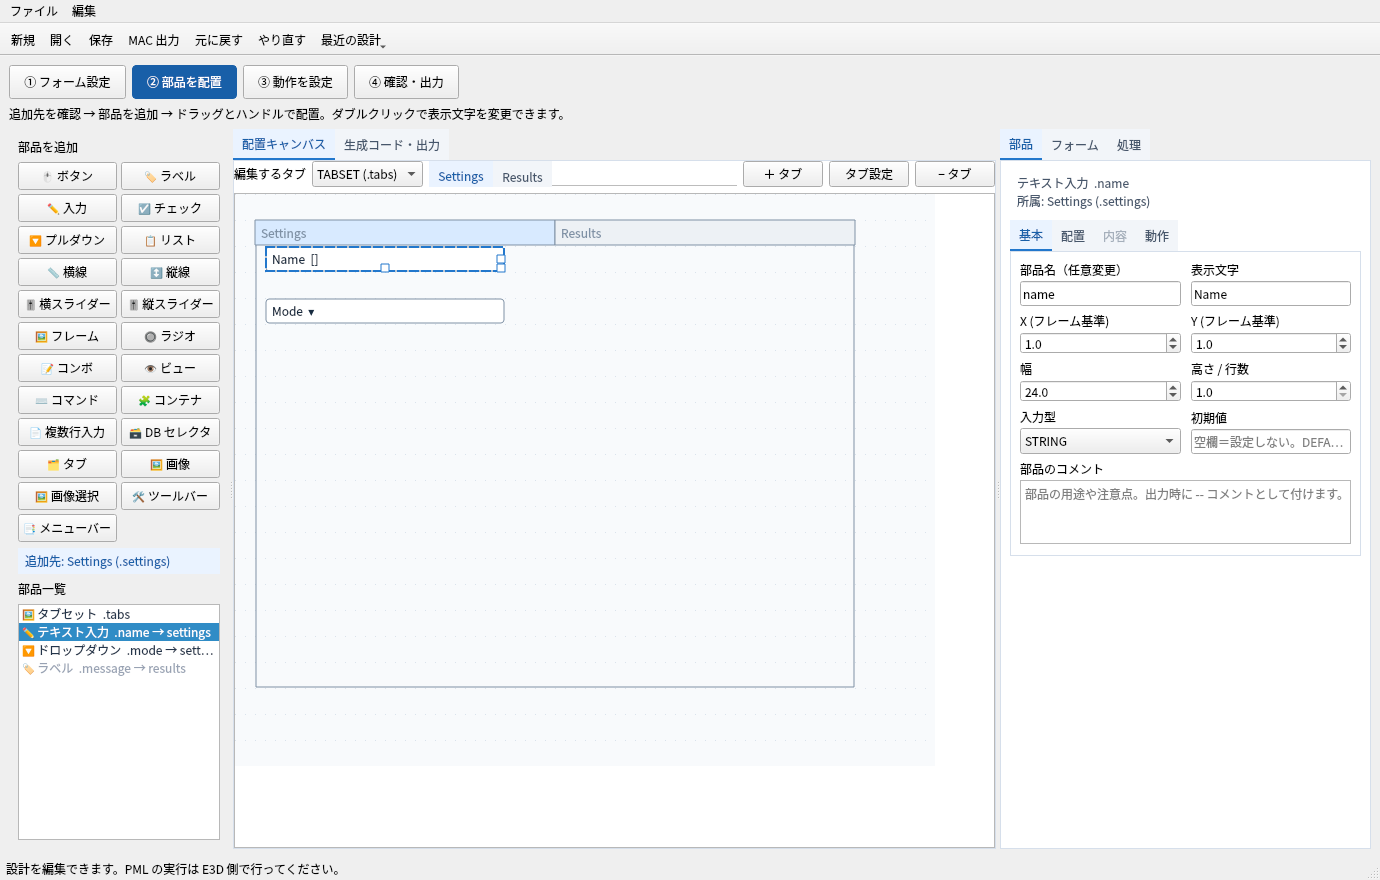
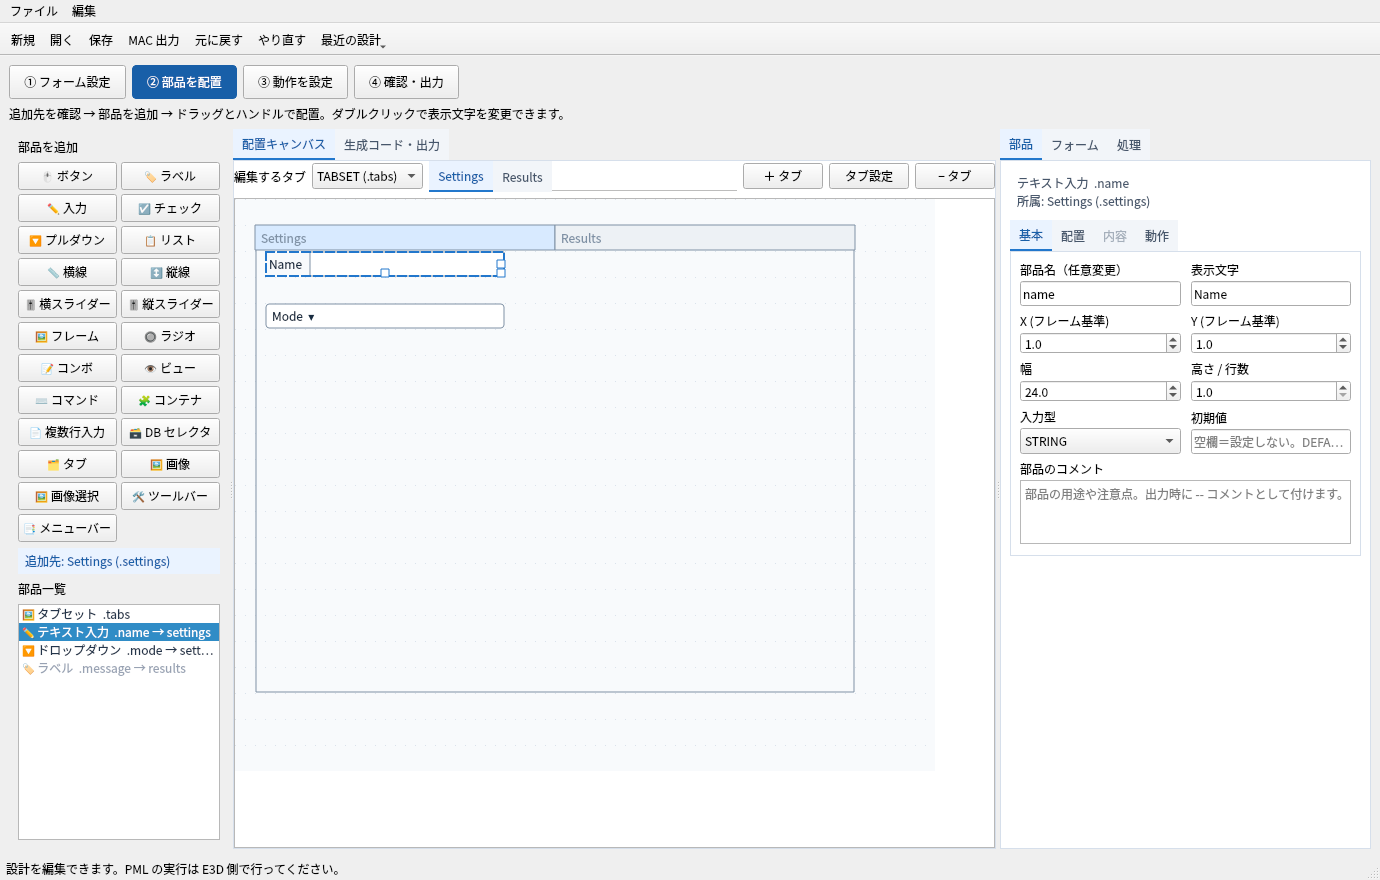
feat: choose boolean defaults and separate text labels from input frames

diff --git a/e3d_designer/app.py b/e3d_designer/app.py
@@ -263,6 +263,13 @@ class Item(QGraphicsObject):
             g.width,g.height = old_width,old_height
         self.resizing.emit(); event.accept()
 
+    def text_regions(self,metrics):
+        rect=self.boundingRect()
+        label_width=min(metrics.horizontalAdvance(self.gadget.label)+8,max(0,rect.width()*.45)) if self.gadget.label else 0
+        label=QRectF(4,1,max(0,label_width-4),max(0,rect.height()-2))
+        entry=rect.adjusted(label_width+4 if label_width else 1,1,-1,-1)
+        return label,entry
+
     def paint(self, painter, option, widget=None):
         r, g = self.boundingRect(), self.gadget
         painter.setRenderHint(QPainter.Antialiasing)
@@ -300,6 +307,9 @@ class Item(QGraphicsObject):
                 painter.drawLine(r.left(), r.center().y(), r.right(), r.center().y())
             else:
                 painter.drawLine(r.center().x(), r.top(), r.center().x(), r.bottom())
+        elif g.kind=='text':
+            _,entry=self.text_regions(painter.fontMetrics())
+            painter.drawRect(entry)
         else:
             painter.drawRoundedRect(r.adjusted(1, 1, -1, -1), 3, 3)
         painter.setPen(QColor(foreground_color(background) if background else '#182b40'))
@@ -319,10 +329,14 @@ class Item(QGraphicsObject):
             if self.form.children(g.name) and g.frame_style == 'TABSET': text = ''
             if parent and parent.frame_style == 'TABSET': text = ''
         if g.kind == 'paragraph' and g.background: text += f' [BG {g.background}]'
-        if g.kind == 'text': text += '  [' + g.initial + ']'
-        if g.kind == 'toggle': text = '☐ ' + text
+        if g.kind == 'text':
+            label,entry=self.text_regions(painter.fontMetrics())
+            painter.drawText(label,Qt.AlignLeft|Qt.AlignVCenter,painter.fontMetrics().elidedText(g.label,Qt.ElideRight,max(0,int(label.width()))))
+            painter.drawText(entry.adjusted(5,1,-5,-1),Qt.AlignLeft|Qt.AlignVCenter,g.initial)
+            text=''
+        if g.kind == 'toggle': text = ('☑ ' if g.initial.upper()=='TRUE' else '☐ ') + text
         if g.kind in ('option','combo') and g.display_mode != 'PIXMAP': text += '  ▾'
-        if g.kind == 'rtoggle': text = '○ '+text
+        if g.kind == 'rtoggle': text = ('● ' if g.initial.upper()=='TRUE' else '○ ')+text
         if g.kind == 'slider': text = ''
         if g.kind in ('view','commandline'):
             painter.setPen(QColor('#d7e7f7'))
@@ -634,6 +648,11 @@ class Window(QMainWindow):
             if key in ('name','callback','table_method','macro_flag','macro_value'):
                 w.setToolTip('自動設定・自動生成されます。管理用の名前にしたい場合だけ変更してください。')
         self.fields['action_mode'].setItemData(0,'CODE');self.fields['action_mode'].setItemData(1,'MACRO')
+        self.initial_choice=QComboBox()
+        for value in ('','TRUE','FALSE'):self.initial_choice.addItem(value,value)
+        self.initial_choice.currentIndexChanged.connect(self.update_initial_choice)
+        self.initial_choice.setToolTip('空欄＝設定しない。TRUE / FALSEを選ぶとDEFAULTへ自動出力します。')
+        self.prop_layout.current='基本';self.prop_layout.addRow('初期値',self.initial_choice,'value_type')
         self.fields['action_mode'].setItemText(0,'手入力のコマンド / メソッド')
         self.fields['action_mode'].setItemText(1,'外部マクロを実行')
         self.fields['macro_flag'].setPlaceholderText('例: buttonFlag（!! は不要・空欄ならフラグなし）')
@@ -1132,6 +1151,12 @@ class Window(QMainWindow):
         self.variable_error = False
         self.checkpoint(); self.form.variables = values; self.refresh()
 
+    def update_initial_choice(self):
+        if self.loading or self.selected is None:return
+        if self.form.gadgets[self.selected].kind not in ('toggle','rtoggle'):return
+        self.fields['initial'].setText(self.initial_choice.currentData())
+        self.update_gadget()
+
     def update_default_body(self):
         if self.loading: return
         self.checkpoint(); self.form.default_body = self.default_body.toPlainText(); self.refresh()
@@ -1245,6 +1270,10 @@ class Window(QMainWindow):
         for key in ('selection_mode','list_mode','table_method','combo_keyword','slider_orientation','slider_min','slider_max','slider_step','slider_value','off_value','on_value','view_type','view_aspect','channels','assembly','namespace','control_type'):
             relevant[key] = self.fields[key].isEnabled()
         for key,visible in relevant.items(): self.prop_layout.setRowVisible(self.fields[key],visible)
+        boolean=gadget.kind in ('toggle','rtoggle')
+        self.prop_layout.setRowVisible(self.fields['initial'],relevant['initial'] and not boolean)
+        self.prop_layout.setRowVisible(self.initial_choice,boolean)
+        self.initial_choice.setCurrentIndex(max(0,self.initial_choice.findData(gadget.initial.upper())))
         for editor,visible in ((self.choose_background,relevant['background']),(self.macro_browse,macro),(self.macro_template,macro),(self.choices,gadget.kind in ('option','combo') or (gadget.kind == 'list' and gadget.list_mode == 'SIMPLE')),
                                (self.choice_commands,gadget.kind == 'option' and gadget.display_mode == 'TEXT'),
                                (self.item_values,gadget.kind == 'combo' or (gadget.kind == 'option' and gadget.display_mode == 'PIXMAP') or (gadget.kind == 'list' and gadget.list_mode == 'SIMPLE')),

diff --git a/tests/test_initial_preview.py b/tests/test_initial_preview.py
@@ -1,0 +1,62 @@
+import os
+os.environ.setdefault('QT_QPA_PLATFORM','offscreen')
+import tempfile
+import unittest
+from pathlib import Path
+from PySide6.QtGui import QFontMetrics
+from PySide6.QtWidgets import QApplication,QLineEdit
+from e3d_designer.app import Window,Item
+from e3d_designer.model import Form,Gadget
+
+
+class InitialPreviewTests(unittest.TestCase):
+    @classmethod
+    def setUpClass(cls):cls.app=QApplication.instance() or QApplication([])
+
+    def setUp(self):
+        self.temp=tempfile.TemporaryDirectory()
+        self.w=Window(settings_path=Path(self.temp.name)/'settings.json');self.w.show();self.app.processEvents()
+
+    def tearDown(self):
+        self.app.clipboard().clear();self.w.dirty=False;self.w.close();self.app.processEvents();self.temp.cleanup()
+
+    def test_boolean_dropdown_changes_values_and_undo_without_free_text(self):
+        w=self.w
+        for kind in ('toggle','rtoggle'):
+            w.new();w.add(kind)
+            name=w.form.gadgets[w.selected].name
+            self.assertFalse(w.initial_choice.isEditable());self.assertTrue(w.initial_choice.isVisible())
+            self.assertFalse(w.fields['initial'].isVisible())
+            self.assertEqual([w.initial_choice.itemData(i) for i in range(3)],['','TRUE','FALSE'])
+            for value in ('TRUE','FALSE',''):
+                if value=='':w.initial_choice.setCurrentIndex(w.initial_choice.findData('TRUE'))
+                previous=w.form.named(name).initial
+                w.initial_choice.setCurrentIndex(w.initial_choice.findData(value))
+                self.assertEqual(w.form.named(name).initial,value)
+                self.assertEqual(Form.loads(w.form.dumps()).named(name).initial,value)
+                if value and kind=='toggle':self.assertIn('.VAL = '+value,w.form.pml())
+                w.undo();self.assertEqual(w.form.named(name).initial,previous)
+                w.choose_row(next(i for i,g in enumerate(w.form.gadgets) if g.name==name))
+            w.dirty=False
+
+    def test_switch_between_boolean_and_string_preserves_values(self):
+        w=self.w;w.form=Form(gadgets=[Gadget(kind='toggle',name='enabled',initial='true'),Gadget(kind='text',name='name',x=30,initial='P-101')])
+        w.selected=0;w.refresh();w.set_workflow('layout');before=w.form.dumps()
+        self.assertEqual(w.initial_choice.currentData(),'TRUE')
+        w.choose_row(1)
+        self.assertFalse(w.initial_choice.isVisible());self.assertTrue(w.fields['initial'].isVisible())
+        self.assertIsInstance(w.fields['initial'],QLineEdit);self.assertEqual(w.fields['initial'].text(),'P-101')
+        w.choose_row(0);self.assertEqual(w.initial_choice.currentData(),'TRUE')
+        self.assertEqual(w.form.dumps(),before);self.assertFalse(w.dirty)
+
+    def test_text_label_and_entry_are_separate_without_geometry_or_code_change(self):
+        form=Form(gadgets=[Gadget(kind='text',name='name',label='Equipment',initial='P-101',width=24)])
+        before=form.dumps();code=form.pml()
+        item=Item(form.gadgets[0],form)
+        label,entry=item.text_regions(QFontMetrics(self.app.font()))
+        self.assertGreater(label.width(),0);self.assertLess(label.right(),entry.left())
+        self.assertGreater(entry.width(),0);self.assertLessEqual(entry.right(),item.boundingRect().right())
+        self.assertEqual(form.dumps(),before);self.assertEqual(form.pml(),code)
+        form.gadgets[0].label=''
+        label,entry=item.text_regions(QFontMetrics(self.app.font()))
+        self.assertEqual(label.width(),0);self.assertEqual(entry.left(),1)

diff --git a/docs/audit-latest.md b/docs/audit-latest.md
@@ -1,3 +1,12 @@
+# 初期値の選択とテキスト入力プレビュー（2026-10-05）
+
+- TOGGLEとRTOGGLEの初期値は、編集不可のプルダウンから空欄・TRUE・FALSEを選びます。文字列用の入力欄はこの2種類では表示せず、他の部品に切り替えると通常の入力欄を表示します。初期値の保存・DEFAULTへの出力・Undoを維持します。
+- TEXTのプレビューは、表示名を枠の外に、入力値を独立した入力枠の内側に表示します。従来の「表示名 [値]」という描画を変更しました。長い表示名は省略し、表示名が空の場合は枠を部品全体に広げます。部品の位置・サイズ・PMLは変更しません。
+- TRUEを設定したチェック・ラジオの選択状態をプレビューにも反映しました。
+- 全200件のテストが成功。追加3件でプルダウンの選択・空欄・保存とUndo、部品切り替え時の表示と値の保持、TEXTの表示名と入力枠が重ならないこと、空の表示名、モデルとPMLの保持を確認しました。実際のQt画面はcurrent-ui/initial-preview.pngに収録しました。E3D実機での表示一致は未検証です。
+
+---
+
 # 作業手順に沿ったUI・自動設定の改善（2026-10-05）
 
 - 上部に「フォーム設定・配置・動作・確認と出力」の切り替えを追加。順序は強制しません。配置中はキャンバスを広く使い、出力時は左右の編集パネルを隠してコード・保存状態・入力チェック・JSON保存・MAC出力をまとめて表示します。画面切り替えは設計・Undo履歴・未保存状態を変更しません。

diff --git a/README.md b/README.md
@@ -406,3 +406,7 @@ BUTTON・PARAGRAPH・LIST を選び、「🎨 色番号表から選択」で1〜
 通常の部品名・フォーム名・メニュー名欄でも、名前管理と同じ処理で既知のコード参照を更新します。空欄・不正な名前・重複名は適用せず、入力を続けられます。参照更新と名前変更は同じUndoに含まれます。
 
 画像の相対パスは、編集中の設計JSONのフォルダ、次にアプリのフォルダから探してプレビューします。保存・MAC出力のパス文字列は保持します。JSONを別フォルダへ保存する場合は画像も配置するか、絶対パスを指定してください。
+
+チェックボックス（TOGGLE）とラジオボタン（RTOGGLE）の初期値は、空欄・TRUE・FALSEのプルダウンから選びます。空欄は初期値設定を省略します。テキスト入力（TEXT）のプレビューは、枠の外の表示名と枠内の入力値を分けて表示し、文字列・数値の初期値は従来どおり入力できます。配置・サイズと出力するPMLの内容は維持しています。
+
+![初期値の選択とテキスト入力のプレビュー](docs/current-ui/initial-preview.png)

diff --git a/docs/current-ui/README.md b/docs/current-ui/README.md
@@ -7,6 +7,8 @@
 - [動作設定](workflow-actions.png)
 - [生成コードと保存・出力](workflow-output.png)
 
+[初期値のプルダウンとテキスト入力の表示](initial-preview.png)では、TRUE/FALSEの選択欄と、枠外の表示名・枠内の値を確認できます。
+
 以下は過去の画面例です。
 
 ---
